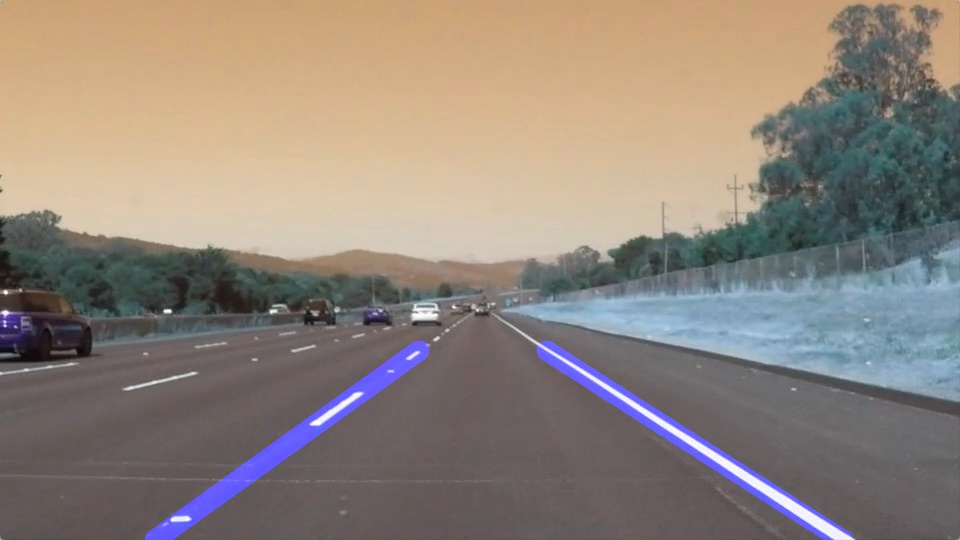
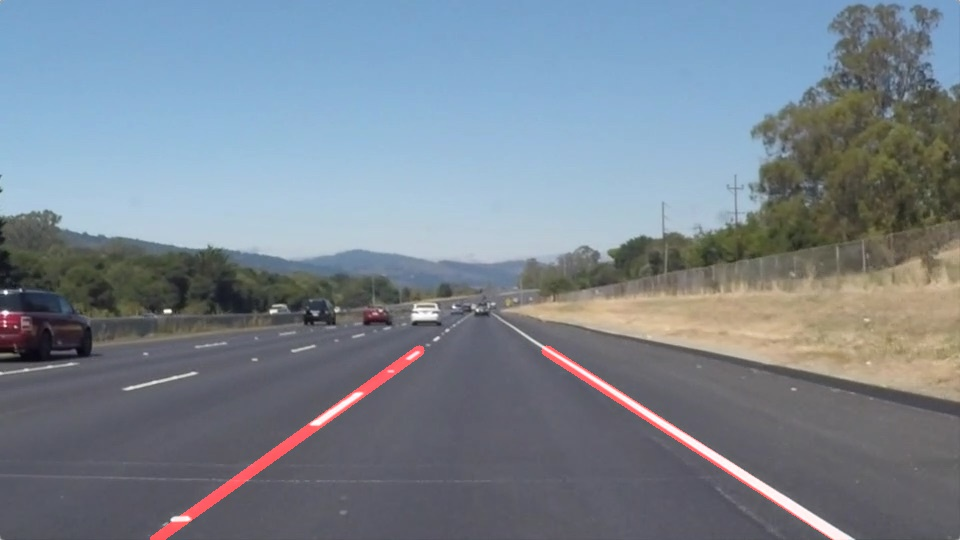
Fixed wrong color in output images. Now they are saved in RGB

diff --git a/Lane_detect_images.py b/Lane_detect_images.py
@@ -146,8 +146,8 @@ def drawLines(img,leftCurve,rightCurve,verLim):
     
     fit_line_image = np.copy(img)*0
     
-    cv2.line(fit_line_image,(x1_left,y1_left),(x2_left,y2_left),(255,0,0),20)
-    cv2.line(fit_line_image,(x1_right,y1_right),(x2_right,y2_right),(255,0,0),20)
+    cv2.line(fit_line_image,(x1_left,y1_left),(x2_left,y2_left),(255,0,0),10)
+    cv2.line(fit_line_image,(x1_right,y1_right),(x2_right,y2_right),(255,0,0),10)
 
     return  weighted_img(image,fit_line_image,0.8,1,0)
 
@@ -203,6 +203,7 @@ for file in os.listdir(imagesFolder):
         plt.figure()
         plt.imshow(output_img)
         
+        output_img = cv2.cvtColor(output_img, cv2.COLOR_BGR2RGB)  #change to RGB
         cv2.imwrite(outputFolder+"/"+file+'-output.jpg',output_img)
     
     
